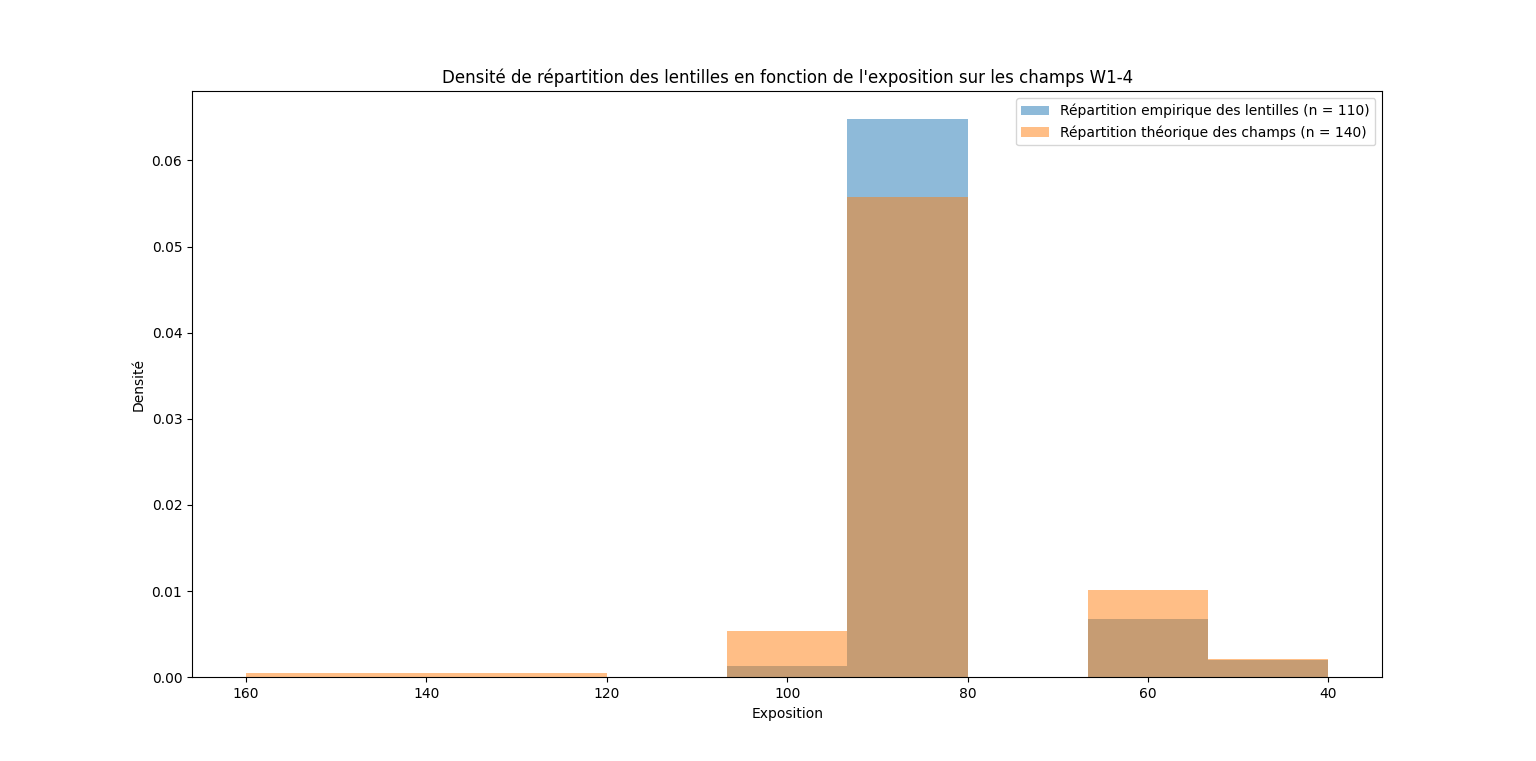
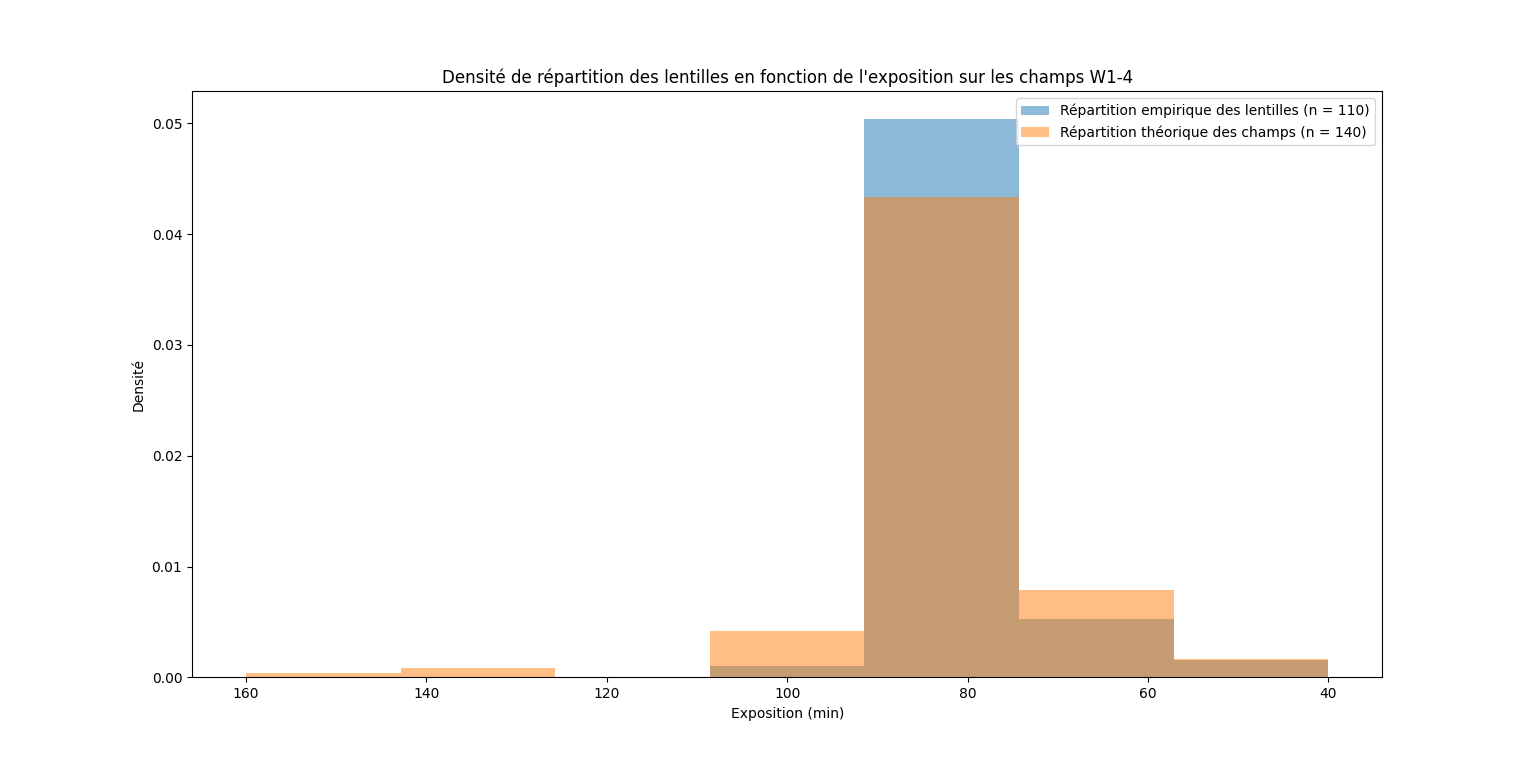
units on plots

diff --git a/python/travail/biais_obs.py b/python/travail/biais_obs.py
@@ -34,10 +34,10 @@ plt.hist(seeing_list_lentille_noNA, bins, alpha=0.5, density=True,
          label=f"Répartition empirique des lentilles (n = {len(seeing_list_lentille_noNA)})")
 plt.hist(seeing_list_obj_noNA, bins, alpha=0.5, density=True,
          label=f"Répartition théorique des champs (n = {len(seeing_list_obj_noNA)})")
-plt.legend(loc='upper right')
+plt.legend(loc='upper left')
 plt.title(
     "Densité de répartition des lentilles en fonction du seeing sur les champs W1-4")
-plt.xlabel("Seeing")
+plt.xlabel("Seeing (arc sec)")
 plt.ylabel("Densité")
 plt.show()
 
@@ -79,13 +79,14 @@ plt.hist(seeing_list_lentille_noNA, bins, alpha=0.5, density=True,
 plt.hist(seeing_list_obj_noNA, bins, alpha=0.5, density=True,
          label=f"Répartition théorique des champs (n = {len(seeing_list_obj_noNA)})", color = 'orange')
 x = np.linspace(0, 1, 100)
-plt.plot(x, norm.pdf(x, mu_l, std_l), 'blue', linewidth=2, label = f"Densité gausienne lentilles, mu = {round(mu_l,2)}, std = {round(std_l,3)}")
-plt.plot(x, norm.pdf(x, mu_w, std_w), 'orange', linewidth=2, label = f"Densité gausienne fields, mu = {round(mu_w,2)}, std = {round(std_w,3)}")
+plt.plot(x, norm.pdf(x, mu_l, std_l), 'blue', linewidth=2, label = f"Densité gausienne lentilles, $\mu$ = {round(mu_l,2)}, $\sigma$ = {round(std_l,3)}")
+plt.plot(x, norm.pdf(x, mu_w, std_w), 'orange', linewidth=2,
+         label=f"Densité gausienne fields, $\mu$ = {round(mu_w,2)}, $\sigma$ = {round(std_w,3)}")
 
 plt.legend(loc='upper left')
 plt.title(
     "Densité de répartition des lentilles en fonction du seeing sur les champs W1-4")
-plt.xlabel("Seeing")
+plt.xlabel("Seeing (arc sec)")
 plt.ylabel("Densité")
 plt.show()
 
@@ -118,7 +119,7 @@ plt.hist(expo_list_obj_noNA, bins, alpha=0.5, density=True,
 plt.legend(loc='upper right')
 plt.title(
     "Densité de répartition des lentilles en fonction de l'exposition sur les champs W1-4")
-plt.xlabel("Exposition")
+plt.xlabel("Exposition (min)")
 plt.ylabel("Densité")
 plt.gca().invert_xaxis()
 plt.show()
